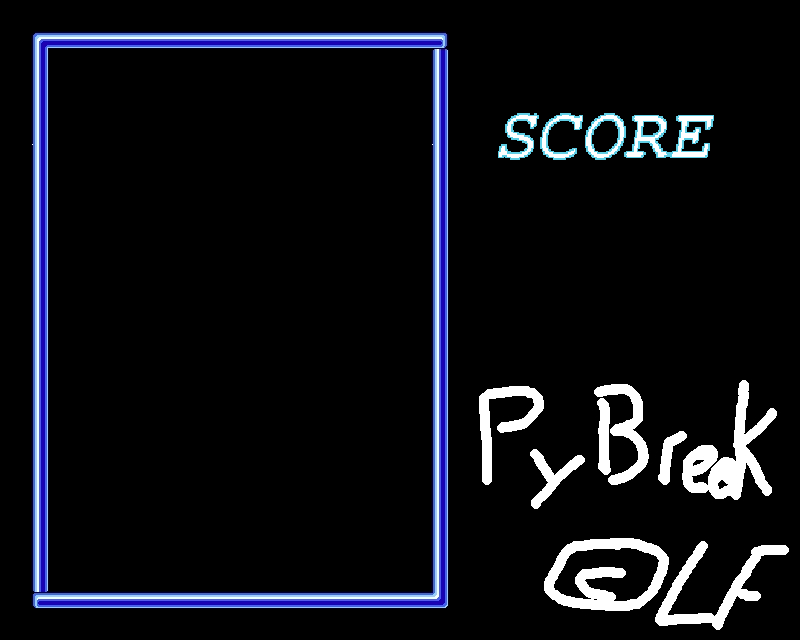
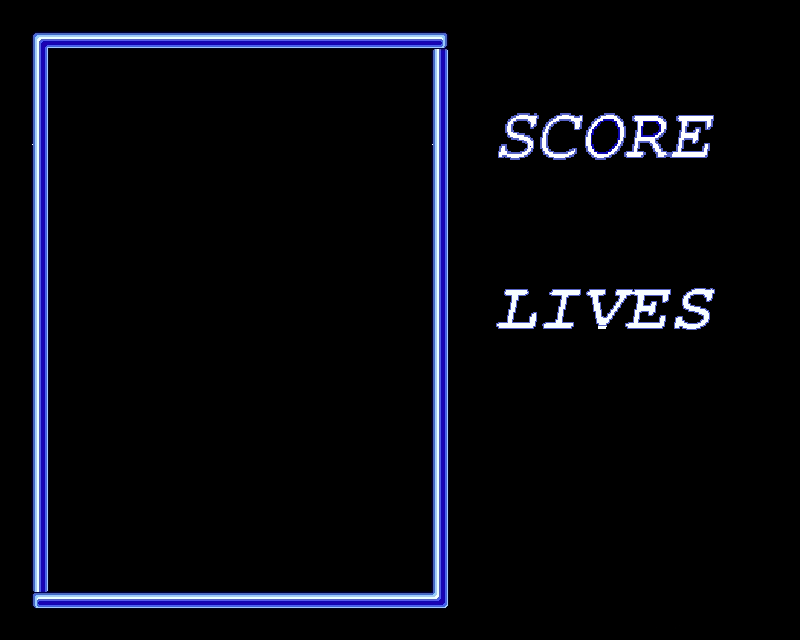
Alpha version completed

diff --git a/game_manager.py b/game_manager.py
@@ -5,7 +5,7 @@ from ball import Ball
 from score import Score
 import pygame
 
-ENEMY_COLORS = ['red3','sienna1','khaki2','chartreuse3','blue2','blueviolet','magenta']
+ENEMY_IMGS = ['assets/red_enemy.png','assets/orange_enemy.png','assets/yellow_enemy.png','assets/green_enemy.png','assets/turquoise_enemy.png','assets/blue_enemy.png','assets/purple_enemy.png']
 ENEMY_LINES = 8
 ENEMY_PER_LINE = 8
 
@@ -14,7 +14,11 @@ class GameManager():
     def __init__(self, width, height):
         self.block_size = int(width/50)
         self.ui = UI(width,height,self.block_size)
-        self.paddle = Paddle(13*self.block_size, 33*self.block_size, self.block_size)
+        self.paddle_init_pos = (13*self.block_size, 33*self.block_size)
+        self.paddle = Paddle(
+            self.paddle_init_pos[0], 
+            self.paddle_init_pos[1], 
+            self.block_size)
         self.clock = pygame.time.Clock()
         self.enemies = []
         for i in range(ENEMY_LINES):
@@ -22,18 +26,22 @@ class GameManager():
                 self.enemies.append(Brick(3*self.block_size+(i*3)*self.block_size,
                                           5*self.block_size+(j*2)*self.block_size,
                                           block_size=self.block_size,
-                                          color=ENEMY_COLORS[(i*8+j)%len(ENEMY_COLORS)]
+                                          img=ENEMY_IMGS[(i*8+j)%len(ENEMY_IMGS)]
                                           ))
-        self.ball = Ball(self.paddle.x+round(self.paddle.width/2),
-                         self.paddle.y-(self.block_size/2),
+        self
+        self.ball_init_pos = (self.paddle.x+round(self.paddle.width/2),
+                              self.paddle.y-(self.block_size/2))
+        self.ball = Ball(self.ball_init_pos[0],
+                         self.ball_init_pos[1],
                          self.block_size)
         self.score = Score(33*self.block_size, 11*self.block_size, self.block_size)
         self.paddle_sound = pygame.mixer.Sound('assets/impact_paddle.wav')
-        self.paddle_sound.set_volume(0.6)
+        self.paddle_sound.set_volume(0.4)
         self.wall_sound = pygame.mixer.Sound('assets/impact_wall.wav')
-        self.wall_sound.set_volume(0.6)
+        self.wall_sound.set_volume(0.4)
         self.brick_sound = pygame.mixer.Sound('assets/impact_brick.wav')
-        self.brick_sound.set_volume(0.6)
+        self.brick_sound.set_volume(0.4)
+        self.lives = 3
         
     def draw_main_loop(self):
         self.clock.tick(60)
@@ -43,6 +51,10 @@ class GameManager():
             enemy.draw(self.ui.window)
         self.ball.draw(self.ui.window)
         self.score.draw(self.ui.window)
+        #draw lives
+        for i in range(self.lives):
+            self.ui.window.blit(self.paddle.img, ((31+5*i)*self.block_size,
+                                                  22*self.block_size))
         pygame.display.flip()
         
     def handle_ball_wall_colision(self):
@@ -58,10 +70,12 @@ class GameManager():
             # lateral collision
             self.ball.hor_direction *= -1
             self.wall_sound.play()
+            self.ball.collisions += 1
         
         if ball_upper_y <= self.ui.upper_wall_y or ball_lower_y >= self.ui.lower_wall_y:
             self.ball.vert_direction *= -1
             self.wall_sound.play()
+            self.ball.collisions += 1
     
     def handle_ball_paddle_colision(self):
         '''
@@ -74,12 +88,14 @@ class GameManager():
         if self.vertical_collision_happened(self.ball, self.paddle) and ball_within_paddle_width:
             self.ball.vert_direction *= -1
             self.paddle_sound.play()
+            self.ball.collisions += 1
             
             
         if self.lateral_collision_happened(self.ball, self.paddle) and ball_within_paddle_height and self.paddle.collide_countdown == 0:
             self.ball.hor_direction *= -1
             self.paddle.collide_countdown = 10
-            self.paddle_sound.play()           
+            self.paddle_sound.play()         
+            self.ball.collisions += 1  
             
         
     
@@ -105,6 +121,7 @@ class GameManager():
                 self.enemies.remove(enemy)
                 self.score.value += 5
                 self.brick_sound.play()
+                self.ball.collisions += 1
                 break
                 
                 
@@ -116,3 +133,20 @@ class GameManager():
     def vertical_collision_happened(self,object_1, object_2):
         return abs(object_1.hitbox.top - object_2.hitbox.bottom) <=2 or               abs(object_2.hitbox.top - object_1.hitbox.bottom) <=2
     
+    
+    def is_ball_alive(self):
+        if self.ball.y > 36*self.block_size:
+            #lose a live and reset
+            self.lives -= 1
+            self.paddle.x = self.paddle_init_pos[0]
+            self.paddle.y = self.paddle_init_pos[1]
+            self.ball.x = self.ball_init_pos[0]
+            self.ball.y = self.ball_init_pos[1]
+            self.ball.is_moving = False
+            self.ball.vel = self.ball.init_vel
+            self.ball.hor_direction = 1
+            self.ball.vert_direction = -1
+            self.ball.collisions = 0
+            self.ui.set_img('assets/bg_start.png')
+
+            

diff --git a/main.py b/main.py
@@ -11,7 +11,7 @@ pygame.mixer.init()
 gm = GameManager(1200,960)
 pygame.mixer.music.load("assets/stage_01.wav")
 pygame.mixer.music.play(-1)
-pygame.mixer.music.set_volume(0.8)
+pygame.mixer.music.set_volume(0.5)
 
 
 run = True
@@ -30,10 +30,10 @@ while run:
         gm.handle_ball_wall_colision()
         gm.handle_ball_paddle_colision()
         gm.handle_ball_enemy_colision()
+        gm.ball.set_speed()
         gm.ball.move()
     
     keys = pygame.key.get_pressed()
-    
     
     if keys[pygame.K_LEFT] and gm.paddle.x > gm.ui.left_wall_x:
         gm.paddle.move(LEFT)
@@ -42,8 +42,23 @@ while run:
         gm.paddle.move(RIGHT)
         
     if keys[pygame.K_SPACE] and not gm.ball.is_moving:
+        gm.ui.set_img('assets/bg.png')
         gm.ball.is_moving = True
+    
+    gm.is_ball_alive()
+    
+    if gm.lives == 0:
+        #Game over
+        gm.ui.set_img('assets/lose.png')
+        gm.draw_main_loop()
+        pygame.time.wait(2000)
+        run = False
         
+    if not gm.enemies:
+        gm.ui.set_img('assets/win.png')
+        gm.draw_main_loop()
+        pygame.time.wait(2000)
+        run = False 
     
     
 pygame.mixer.music.stop()

diff --git a/ball.py b/ball.py
@@ -7,12 +7,14 @@ class Ball():
         self.y = y
         self.radius = int(block_size/2)
         self.color = 'white'
-        self.vel = 4
+        self.init_vel = 4
+        self.vel = self.init_vel
         self.is_moving = False
         self.hor_direction=1
         self.vert_direction=1
         self.rect = (self.x-self.radius, self.y-self.radius, 2*self.radius, 2*self.radius)
         self.hitbox = pygame.Rect(self.rect)
+        self.collisions = 0
         
     def draw(self, window):
         pygame.draw.circle(window, self.color, (self.x, self.y), self.radius)
@@ -22,3 +24,8 @@ class Ball():
         self.y += self.vert_direction*self.vel
         self.rect = (self.x-self.radius, self.y-self.radius, 2*self.radius, 2*self.radius)
         self.hitbox = pygame.Rect(self.rect)
+        
+    def set_speed(self):
+        if self.collisions >= 30:
+            self.vel += 1
+            self.collisions = 0

diff --git a/brick.py b/brick.py
@@ -4,17 +4,18 @@ class Brick():
     """
     Destroyable stuff
     """
-    def __init__(self, x, y, block_size, color):
+    def __init__(self, x, y, block_size, img):
         self.x = x
         self.y = y
         self.width = 3*block_size
         self.height = 2*block_size
         self.rect = (self.x, self.y, self.width, self.height)
         self.hitbox = pygame.Rect(self.rect)
-        self.color = color
+        self.img = pygame.image.load(img)
+        self.img = pygame.transform.scale(self.img, (self.width, self.height))
         
     def draw(self, window):
-        pygame.draw.rect(window, self.color, self.rect)
+        window.blit(self.img, (self.x,self.y))
 
         
         

diff --git a/ui.py b/ui.py
@@ -16,11 +16,15 @@ class UI():
         self.right_wall_x = 27*self.block_size
         self.upper_wall_y = 3*self.block_size+1
         self.lower_wall_y = 37*self.block_size
-        self.img = pygame.image.load('assets/bg.png')
+        self.width = width
+        self.height = height
+        self.img = pygame.image.load('assets/bg_start.png')
         self.img = pygame.transform.scale(self.img, (width, height))
 
 
     def draw_background(self):
         self.window.blit(self.img, (0,0))   
 
-        
+    def set_img(self, img):
+        self.img = pygame.image.load(img)
+        self.img = pygame.transform.scale(self.img, (self.width, self.height))

diff --git a/paddle.py b/paddle.py
@@ -13,9 +13,11 @@ class Paddle():
         self.rect = (self.x, self.y, self.width, self.height)
         self.hitbox = pygame.Rect(self.rect)
         self.collide_countdown = 5
+        self.img = pygame.image.load('assets/paddle.png')
+        self.img = pygame.transform.scale(self.img, (self.width, self.height))
         
     def draw(self, window):
-        pygame.draw.rect(window,'darkturquoise', self.rect)
+        window.blit(self.img, (self.x,self.y))
         
     def move(self, direction):
         self.x += direction*self.vel

diff --git a/README.md b/README.md
@@ -1,2 +1,13 @@
-# pybreak
-Basically Breakout but with Pygame and a retro feel
+# Pybreak v0.1
+Basically Breakout but coded with python library Pygame and a retro feel
+
+All graphic and musical assets have been crafted wy hand with love. You're free to use them in your project if you give me credit one way or another.
+
+## How to play
+While in the folder, type in a terminal
+> pip install pygame
+> python main.py
+
+## Known bugs
+* Some corner collisions make the ball goes through the brick
+* At high speed, collisions are badly calculated so the ball goes through the paddle.
